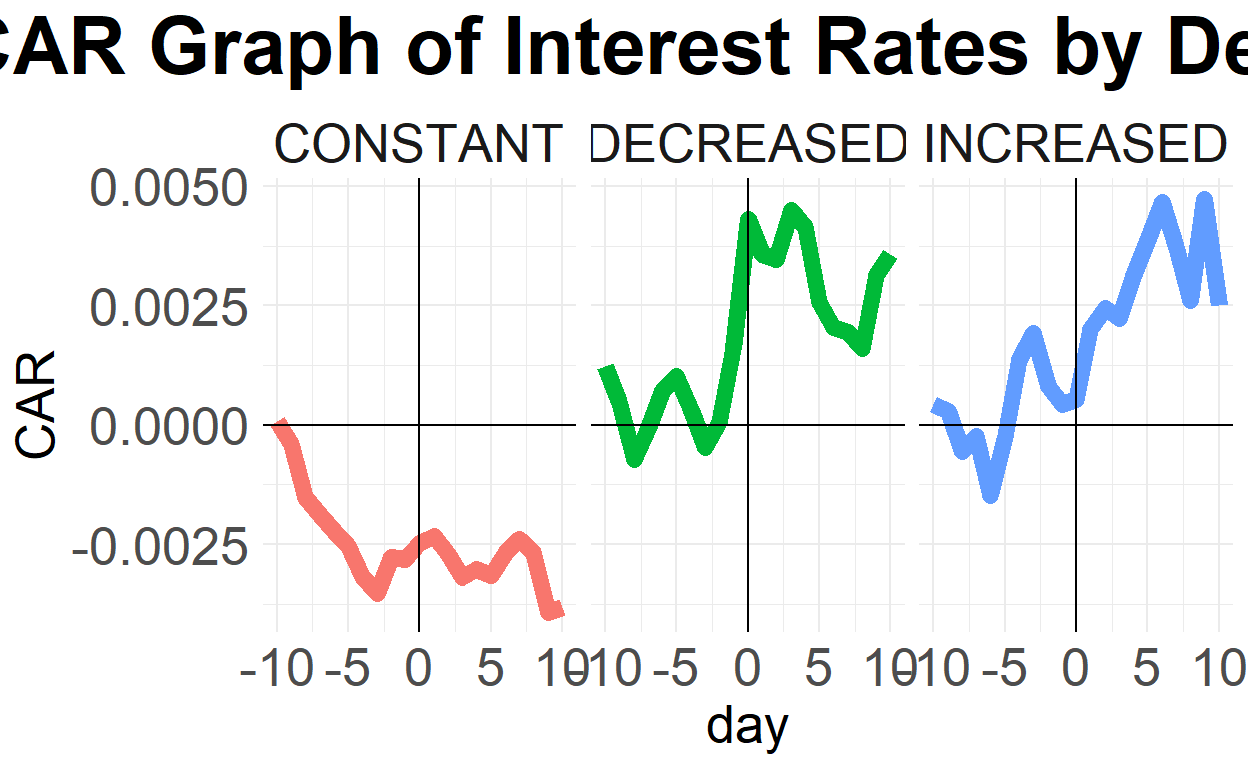
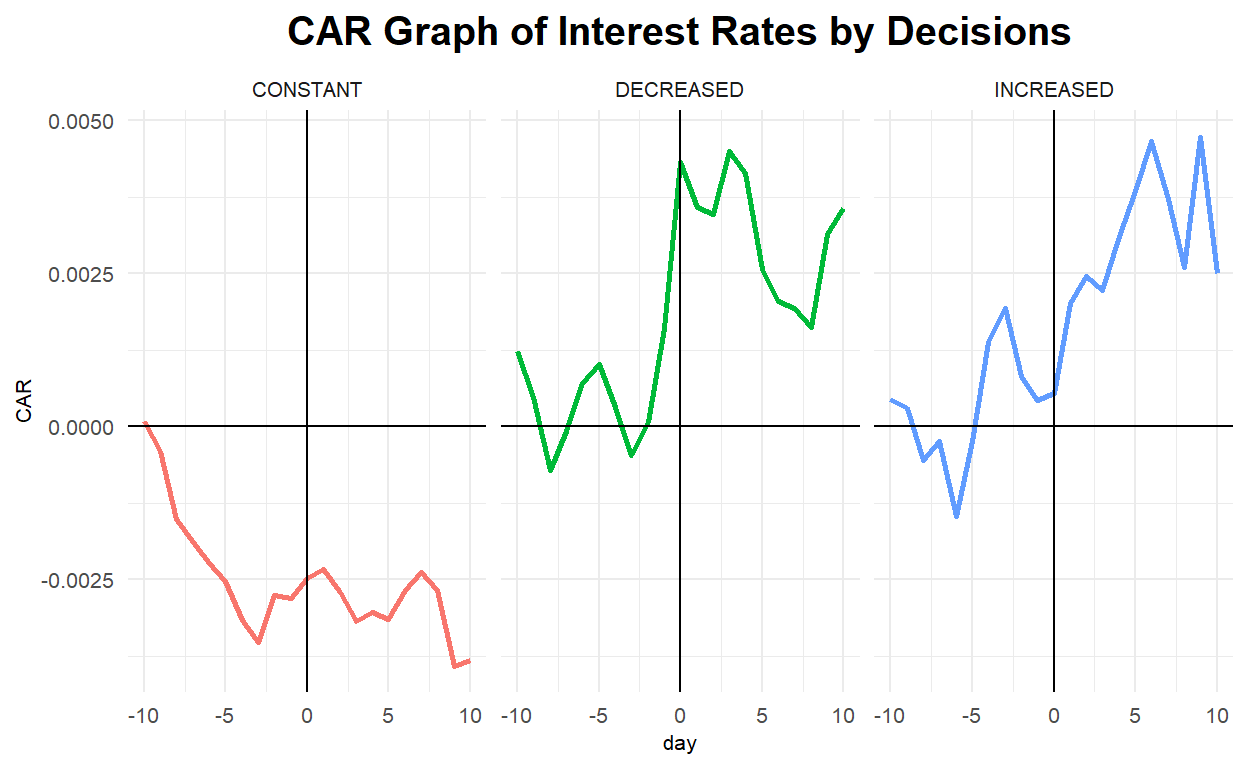
event_study

diff --git a/_posts/2022-11-03-eventstudy/eventstudy.html b/_posts/2022-11-03-eventstudy/eventstudy.html
@@ -117,7 +117,7 @@ code span.wa { color: #5e5e5e; font-style: italic; } /* Warning */
   <!--/radix_placeholder_rmarkdown_metadata-->
   
   <script type="text/json" id="radix-resource-manifest">
-  {"type":"character","attributes":{},"value":["data.xlsx","event_est_window.PNG","eventstudy_files/figure-html5/unnamed-chunk-3-1.png","eventstudy_files/figure-html5/unnamed-chunk-4-1.png","eventstudy_files/figure-html5/unnamed-chunk-8-1.png","eventstudy_files/figure-html5/unnamed-chunk-9-1.png"]}
+  {"type":"character","attributes":{},"value":["data.xlsx","event_est_window.PNG","eventstudy_files/anchor-4.2.2/anchor.min.js","eventstudy_files/bowser-1.9.3/bowser.min.js","eventstudy_files/distill-2.2.21/template.v2.js","eventstudy_files/figure-html5/unnamed-chunk-3-1.png","eventstudy_files/figure-html5/unnamed-chunk-4-1.png","eventstudy_files/figure-html5/unnamed-chunk-8-1.png","eventstudy_files/figure-html5/unnamed-chunk-9-1.png","eventstudy_files/header-attrs-2.14/header-attrs.js","eventstudy_files/jquery-3.6.0/jquery-3.6.0.js","eventstudy_files/jquery-3.6.0/jquery-3.6.0.min.js","eventstudy_files/jquery-3.6.0/jquery-3.6.0.min.map","eventstudy_files/popper-2.6.0/popper.min.js","eventstudy_files/tippy-6.2.7/tippy-bundle.umd.min.js","eventstudy_files/tippy-6.2.7/tippy-light-border.css","eventstudy_files/tippy-6.2.7/tippy.css","eventstudy_files/tippy-6.2.7/tippy.umd.min.js","eventstudy_files/webcomponents-2.0.0/webcomponents.js"]}
   </script>
   <!--radix_placeholder_navigation_in_header-->
   <!--/radix_placeholder_navigation_in_header-->
@@ -1736,15 +1736,15 @@ stock. Our Estimation window is (-252, -10) and our event window is
 
 <span class='va'>master_all</span> <span class='op'>&lt;-</span> <span class='fu'><a href='https://Rdatatable.gitlab.io/data.table/reference/rbindlist.html'>rbind</a></span><span class='op'>(</span><span class='va'>master2_cons</span>,<span class='va'>master2_inc</span>,<span class='va'>master2_dec</span><span class='op'>)</span>
 <span class='fu'><a href='https://ggplot2.tidyverse.org/reference/ggplot.html'>ggplot</a></span><span class='op'>(</span><span class='va'>master_all</span>, <span class='fu'><a href='https://ggplot2.tidyverse.org/reference/aes.html'>aes</a></span><span class='op'>(</span>x <span class='op'>=</span> <span class='va'>day</span>, y <span class='op'>=</span> <span class='va'>CAR</span>, color <span class='op'>=</span> <span class='va'>DECISION</span><span class='op'>)</span><span class='op'>)</span> <span class='op'>+</span>
-  <span class='fu'><a href='https://ggplot2.tidyverse.org/reference/geom_path.html'>geom_line</a></span><span class='op'>(</span>size <span class='op'>=</span> <span class='fl'>3</span><span class='op'>)</span> <span class='op'>+</span>
+  <span class='fu'><a href='https://ggplot2.tidyverse.org/reference/geom_path.html'>geom_line</a></span><span class='op'>(</span>size <span class='op'>=</span> <span class='fl'>1</span><span class='op'>)</span> <span class='op'>+</span>
   <span class='fu'><a href='https://ggplot2.tidyverse.org/reference/geom_abline.html'>geom_vline</a></span><span class='op'>(</span>xintercept <span class='op'>=</span> <span class='fl'>0</span><span class='op'>)</span> <span class='op'>+</span>
   <span class='fu'><a href='https://ggplot2.tidyverse.org/reference/geom_abline.html'>geom_hline</a></span><span class='op'>(</span>yintercept <span class='op'>=</span> <span class='fl'>0</span><span class='op'>)</span> <span class='op'>+</span>
   <span class='fu'><a href='https://ggplot2.tidyverse.org/reference/ggtheme.html'>theme_minimal</a></span><span class='op'>(</span><span class='op'>)</span> <span class='op'>+</span>
-  <span class='fu'><a href='https://ggplot2.tidyverse.org/reference/theme.html'>theme</a></span><span class='op'>(</span>strip.text <span class='op'>=</span> <span class='fu'><a href='https://ggplot2.tidyverse.org/reference/element.html'>element_text</a></span><span class='op'>(</span>size <span class='op'>=</span> <span class='fl'>20</span><span class='op'>)</span>,
+  <span class='fu'><a href='https://ggplot2.tidyverse.org/reference/theme.html'>theme</a></span><span class='op'>(</span>strip.text <span class='op'>=</span> <span class='fu'><a href='https://ggplot2.tidyverse.org/reference/element.html'>element_text</a></span><span class='op'>(</span>size <span class='op'>=</span> <span class='fl'>8</span><span class='op'>)</span>,
         legend.position <span class='op'>=</span> <span class='st'>"none"</span>,
-        axis.text <span class='op'>=</span> <span class='fu'><a href='https://ggplot2.tidyverse.org/reference/element.html'>element_text</a></span><span class='op'>(</span>size <span class='op'>=</span> <span class='fl'>20</span><span class='op'>)</span>,
-        axis.title <span class='op'>=</span> <span class='fu'><a href='https://ggplot2.tidyverse.org/reference/element.html'>element_text</a></span><span class='op'>(</span>size <span class='op'>=</span> <span class='fl'>20</span><span class='op'>)</span>,
-        plot.title <span class='op'>=</span> <span class='fu'><a href='https://ggplot2.tidyverse.org/reference/element.html'>element_text</a></span><span class='op'>(</span>size <span class='op'>=</span> <span class='fl'>30</span>, face <span class='op'>=</span> <span class='st'>"bold"</span>, hjust <span class='op'>=</span> <span class='fl'>0.5</span><span class='op'>)</span><span class='op'>)</span> <span class='op'>+</span>
+        axis.text <span class='op'>=</span> <span class='fu'><a href='https://ggplot2.tidyverse.org/reference/element.html'>element_text</a></span><span class='op'>(</span>size <span class='op'>=</span> <span class='fl'>8</span><span class='op'>)</span>,
+        axis.title <span class='op'>=</span> <span class='fu'><a href='https://ggplot2.tidyverse.org/reference/element.html'>element_text</a></span><span class='op'>(</span>size <span class='op'>=</span> <span class='fl'>8</span><span class='op'>)</span>,
+        plot.title <span class='op'>=</span> <span class='fu'><a href='https://ggplot2.tidyverse.org/reference/element.html'>element_text</a></span><span class='op'>(</span>size <span class='op'>=</span> <span class='fl'>15</span>, face <span class='op'>=</span> <span class='st'>"bold"</span>, hjust <span class='op'>=</span> <span class='fl'>0.5</span><span class='op'>)</span><span class='op'>)</span> <span class='op'>+</span>
   <span class='fu'><a href='https://ggplot2.tidyverse.org/reference/facet_wrap.html'>facet_wrap</a></span><span class='op'>(</span><span class='op'>~</span><span class='va'>DECISION</span><span class='op'>)</span> <span class='op'>+</span>
   <span class='fu'><a href='https://ggplot2.tidyverse.org/reference/labs.html'>labs</a></span><span class='op'>(</span>title <span class='op'>=</span> <span class='st'>"CAR Graph of Interest Rates by Decisions"</span><span class='op'>)</span>
 </code></pre>
@@ -1871,15 +1871,15 @@ DECISION <span class='op'>=</span> <span class='st'>"DECREASED"</span>
 
 
 <span class='fu'><a href='https://ggplot2.tidyverse.org/reference/ggplot.html'>ggplot</a></span><span class='op'>(</span><span class='va'>master_all2</span>, <span class='fu'><a href='https://ggplot2.tidyverse.org/reference/aes.html'>aes</a></span><span class='op'>(</span>x <span class='op'>=</span> <span class='va'>day</span>, y <span class='op'>=</span> <span class='va'>CAR</span>, color <span class='op'>=</span> <span class='va'>DECISION</span><span class='op'>)</span><span class='op'>)</span> <span class='op'>+</span>
-  <span class='fu'><a href='https://ggplot2.tidyverse.org/reference/geom_path.html'>geom_line</a></span><span class='op'>(</span>size <span class='op'>=</span> <span class='fl'>3</span><span class='op'>)</span> <span class='op'>+</span>
+  <span class='fu'><a href='https://ggplot2.tidyverse.org/reference/geom_path.html'>geom_line</a></span><span class='op'>(</span>size <span class='op'>=</span> <span class='fl'>1</span><span class='op'>)</span> <span class='op'>+</span>
   <span class='fu'><a href='https://ggplot2.tidyverse.org/reference/geom_abline.html'>geom_vline</a></span><span class='op'>(</span>xintercept <span class='op'>=</span> <span class='fl'>0</span><span class='op'>)</span> <span class='op'>+</span>
   <span class='fu'><a href='https://ggplot2.tidyverse.org/reference/geom_abline.html'>geom_hline</a></span><span class='op'>(</span>yintercept <span class='op'>=</span> <span class='fl'>0</span><span class='op'>)</span> <span class='op'>+</span>
   <span class='fu'><a href='https://ggplot2.tidyverse.org/reference/ggtheme.html'>theme_minimal</a></span><span class='op'>(</span><span class='op'>)</span> <span class='op'>+</span>
-  <span class='fu'><a href='https://ggplot2.tidyverse.org/reference/theme.html'>theme</a></span><span class='op'>(</span>strip.text <span class='op'>=</span> <span class='fu'><a href='https://ggplot2.tidyverse.org/reference/element.html'>element_text</a></span><span class='op'>(</span>size <span class='op'>=</span> <span class='fl'>20</span><span class='op'>)</span>,
+  <span class='fu'><a href='https://ggplot2.tidyverse.org/reference/theme.html'>theme</a></span><span class='op'>(</span>strip.text <span class='op'>=</span> <span class='fu'><a href='https://ggplot2.tidyverse.org/reference/element.html'>element_text</a></span><span class='op'>(</span>size <span class='op'>=</span> <span class='fl'>8</span><span class='op'>)</span>,
         legend.position <span class='op'>=</span> <span class='st'>"none"</span>,
-        axis.text <span class='op'>=</span> <span class='fu'><a href='https://ggplot2.tidyverse.org/reference/element.html'>element_text</a></span><span class='op'>(</span>size <span class='op'>=</span> <span class='fl'>20</span><span class='op'>)</span>,
-        axis.title <span class='op'>=</span> <span class='fu'><a href='https://ggplot2.tidyverse.org/reference/element.html'>element_text</a></span><span class='op'>(</span>size <span class='op'>=</span> <span class='fl'>20</span><span class='op'>)</span>,
-        plot.title <span class='op'>=</span> <span class='fu'><a href='https://ggplot2.tidyverse.org/reference/element.html'>element_text</a></span><span class='op'>(</span>size <span class='op'>=</span> <span class='fl'>30</span>, face <span class='op'>=</span> <span class='st'>"bold"</span>, hjust <span class='op'>=</span> <span class='fl'>0.5</span><span class='op'>)</span><span class='op'>)</span> <span class='op'>+</span>
+        axis.text <span class='op'>=</span> <span class='fu'><a href='https://ggplot2.tidyverse.org/reference/element.html'>element_text</a></span><span class='op'>(</span>size <span class='op'>=</span> <span class='fl'>8</span><span class='op'>)</span>,
+        axis.title <span class='op'>=</span> <span class='fu'><a href='https://ggplot2.tidyverse.org/reference/element.html'>element_text</a></span><span class='op'>(</span>size <span class='op'>=</span> <span class='fl'>8</span><span class='op'>)</span>,
+        plot.title <span class='op'>=</span> <span class='fu'><a href='https://ggplot2.tidyverse.org/reference/element.html'>element_text</a></span><span class='op'>(</span>size <span class='op'>=</span> <span class='fl'>15</span>, face <span class='op'>=</span> <span class='st'>"bold"</span>, hjust <span class='op'>=</span> <span class='fl'>0.5</span><span class='op'>)</span><span class='op'>)</span> <span class='op'>+</span>
   <span class='fu'><a href='https://ggplot2.tidyverse.org/reference/facet_wrap.html'>facet_wrap</a></span><span class='op'>(</span><span class='op'>~</span><span class='va'>DECISION</span><span class='op'>)</span> <span class='op'>+</span>
   <span class='fu'><a href='https://ggplot2.tidyverse.org/reference/labs.html'>labs</a></span><span class='op'>(</span>title <span class='op'>=</span> <span class='st'>"CAR Graph of Interest Rates by Decisions"</span><span class='op'>)</span>
 </code></pre>

diff --git a/docs/posts/2022-11-03-eventstudy/index.html b/docs/posts/2022-11-03-eventstudy/index.html
@@ -118,7 +118,7 @@ code span.wa { color: #5e5e5e; font-style: italic; } /* Warning */
 <!--/radix_placeholder_rmarkdown_metadata-->
   
   <script type="text/json" id="radix-resource-manifest">
-  {"type":"character","attributes":{},"value":["data.xlsx","event_est_window.PNG","eventstudy_files/figure-html5/unnamed-chunk-3-1.png","eventstudy_files/figure-html5/unnamed-chunk-4-1.png","eventstudy_files/figure-html5/unnamed-chunk-8-1.png","eventstudy_files/figure-html5/unnamed-chunk-9-1.png"]}
+  {"type":"character","attributes":{},"value":["data.xlsx","event_est_window.PNG","eventstudy_files/anchor-4.2.2/anchor.min.js","eventstudy_files/bowser-1.9.3/bowser.min.js","eventstudy_files/distill-2.2.21/template.v2.js","eventstudy_files/figure-html5/unnamed-chunk-3-1.png","eventstudy_files/figure-html5/unnamed-chunk-4-1.png","eventstudy_files/figure-html5/unnamed-chunk-8-1.png","eventstudy_files/figure-html5/unnamed-chunk-9-1.png","eventstudy_files/header-attrs-2.14/header-attrs.js","eventstudy_files/jquery-3.6.0/jquery-3.6.0.js","eventstudy_files/jquery-3.6.0/jquery-3.6.0.min.js","eventstudy_files/jquery-3.6.0/jquery-3.6.0.min.map","eventstudy_files/popper-2.6.0/popper.min.js","eventstudy_files/tippy-6.2.7/tippy-bundle.umd.min.js","eventstudy_files/tippy-6.2.7/tippy-light-border.css","eventstudy_files/tippy-6.2.7/tippy.css","eventstudy_files/tippy-6.2.7/tippy.umd.min.js","eventstudy_files/webcomponents-2.0.0/webcomponents.js"]}
   </script>
   <!--radix_placeholder_navigation_in_header-->
 <meta name="distill:offset" content="../.."/>
@@ -2356,15 +2356,15 @@ stock. Our Estimation window is (-252, -10) and our event window is
 
 <span class='va'>master_all</span> <span class='op'>&lt;-</span> <span class='fu'><a href='https://Rdatatable.gitlab.io/data.table/reference/rbindlist.html'>rbind</a></span><span class='op'>(</span><span class='va'>master2_cons</span>,<span class='va'>master2_inc</span>,<span class='va'>master2_dec</span><span class='op'>)</span>
 <span class='fu'><a href='https://ggplot2.tidyverse.org/reference/ggplot.html'>ggplot</a></span><span class='op'>(</span><span class='va'>master_all</span>, <span class='fu'><a href='https://ggplot2.tidyverse.org/reference/aes.html'>aes</a></span><span class='op'>(</span>x <span class='op'>=</span> <span class='va'>day</span>, y <span class='op'>=</span> <span class='va'>CAR</span>, color <span class='op'>=</span> <span class='va'>DECISION</span><span class='op'>)</span><span class='op'>)</span> <span class='op'>+</span>
-  <span class='fu'><a href='https://ggplot2.tidyverse.org/reference/geom_path.html'>geom_line</a></span><span class='op'>(</span>size <span class='op'>=</span> <span class='fl'>3</span><span class='op'>)</span> <span class='op'>+</span>
+  <span class='fu'><a href='https://ggplot2.tidyverse.org/reference/geom_path.html'>geom_line</a></span><span class='op'>(</span>size <span class='op'>=</span> <span class='fl'>1</span><span class='op'>)</span> <span class='op'>+</span>
   <span class='fu'><a href='https://ggplot2.tidyverse.org/reference/geom_abline.html'>geom_vline</a></span><span class='op'>(</span>xintercept <span class='op'>=</span> <span class='fl'>0</span><span class='op'>)</span> <span class='op'>+</span>
   <span class='fu'><a href='https://ggplot2.tidyverse.org/reference/geom_abline.html'>geom_hline</a></span><span class='op'>(</span>yintercept <span class='op'>=</span> <span class='fl'>0</span><span class='op'>)</span> <span class='op'>+</span>
   <span class='fu'><a href='https://ggplot2.tidyverse.org/reference/ggtheme.html'>theme_minimal</a></span><span class='op'>(</span><span class='op'>)</span> <span class='op'>+</span>
-  <span class='fu'><a href='https://ggplot2.tidyverse.org/reference/theme.html'>theme</a></span><span class='op'>(</span>strip.text <span class='op'>=</span> <span class='fu'><a href='https://ggplot2.tidyverse.org/reference/element.html'>element_text</a></span><span class='op'>(</span>size <span class='op'>=</span> <span class='fl'>20</span><span class='op'>)</span>,
+  <span class='fu'><a href='https://ggplot2.tidyverse.org/reference/theme.html'>theme</a></span><span class='op'>(</span>strip.text <span class='op'>=</span> <span class='fu'><a href='https://ggplot2.tidyverse.org/reference/element.html'>element_text</a></span><span class='op'>(</span>size <span class='op'>=</span> <span class='fl'>8</span><span class='op'>)</span>,
         legend.position <span class='op'>=</span> <span class='st'>"none"</span>,
-        axis.text <span class='op'>=</span> <span class='fu'><a href='https://ggplot2.tidyverse.org/reference/element.html'>element_text</a></span><span class='op'>(</span>size <span class='op'>=</span> <span class='fl'>20</span><span class='op'>)</span>,
-        axis.title <span class='op'>=</span> <span class='fu'><a href='https://ggplot2.tidyverse.org/reference/element.html'>element_text</a></span><span class='op'>(</span>size <span class='op'>=</span> <span class='fl'>20</span><span class='op'>)</span>,
-        plot.title <span class='op'>=</span> <span class='fu'><a href='https://ggplot2.tidyverse.org/reference/element.html'>element_text</a></span><span class='op'>(</span>size <span class='op'>=</span> <span class='fl'>30</span>, face <span class='op'>=</span> <span class='st'>"bold"</span>, hjust <span class='op'>=</span> <span class='fl'>0.5</span><span class='op'>)</span><span class='op'>)</span> <span class='op'>+</span>
+        axis.text <span class='op'>=</span> <span class='fu'><a href='https://ggplot2.tidyverse.org/reference/element.html'>element_text</a></span><span class='op'>(</span>size <span class='op'>=</span> <span class='fl'>8</span><span class='op'>)</span>,
+        axis.title <span class='op'>=</span> <span class='fu'><a href='https://ggplot2.tidyverse.org/reference/element.html'>element_text</a></span><span class='op'>(</span>size <span class='op'>=</span> <span class='fl'>8</span><span class='op'>)</span>,
+        plot.title <span class='op'>=</span> <span class='fu'><a href='https://ggplot2.tidyverse.org/reference/element.html'>element_text</a></span><span class='op'>(</span>size <span class='op'>=</span> <span class='fl'>15</span>, face <span class='op'>=</span> <span class='st'>"bold"</span>, hjust <span class='op'>=</span> <span class='fl'>0.5</span><span class='op'>)</span><span class='op'>)</span> <span class='op'>+</span>
   <span class='fu'><a href='https://ggplot2.tidyverse.org/reference/facet_wrap.html'>facet_wrap</a></span><span class='op'>(</span><span class='op'>~</span><span class='va'>DECISION</span><span class='op'>)</span> <span class='op'>+</span>
   <span class='fu'><a href='https://ggplot2.tidyverse.org/reference/labs.html'>labs</a></span><span class='op'>(</span>title <span class='op'>=</span> <span class='st'>"CAR Graph of Interest Rates by Decisions"</span><span class='op'>)</span>
 </code></pre>
@@ -2491,15 +2491,15 @@ DECISION <span class='op'>=</span> <span class='st'>"DECREASED"</span>
 
 
 <span class='fu'><a href='https://ggplot2.tidyverse.org/reference/ggplot.html'>ggplot</a></span><span class='op'>(</span><span class='va'>master_all2</span>, <span class='fu'><a href='https://ggplot2.tidyverse.org/reference/aes.html'>aes</a></span><span class='op'>(</span>x <span class='op'>=</span> <span class='va'>day</span>, y <span class='op'>=</span> <span class='va'>CAR</span>, color <span class='op'>=</span> <span class='va'>DECISION</span><span class='op'>)</span><span class='op'>)</span> <span class='op'>+</span>
-  <span class='fu'><a href='https://ggplot2.tidyverse.org/reference/geom_path.html'>geom_line</a></span><span class='op'>(</span>size <span class='op'>=</span> <span class='fl'>3</span><span class='op'>)</span> <span class='op'>+</span>
+  <span class='fu'><a href='https://ggplot2.tidyverse.org/reference/geom_path.html'>geom_line</a></span><span class='op'>(</span>size <span class='op'>=</span> <span class='fl'>1</span><span class='op'>)</span> <span class='op'>+</span>
   <span class='fu'><a href='https://ggplot2.tidyverse.org/reference/geom_abline.html'>geom_vline</a></span><span class='op'>(</span>xintercept <span class='op'>=</span> <span class='fl'>0</span><span class='op'>)</span> <span class='op'>+</span>
   <span class='fu'><a href='https://ggplot2.tidyverse.org/reference/geom_abline.html'>geom_hline</a></span><span class='op'>(</span>yintercept <span class='op'>=</span> <span class='fl'>0</span><span class='op'>)</span> <span class='op'>+</span>
   <span class='fu'><a href='https://ggplot2.tidyverse.org/reference/ggtheme.html'>theme_minimal</a></span><span class='op'>(</span><span class='op'>)</span> <span class='op'>+</span>
-  <span class='fu'><a href='https://ggplot2.tidyverse.org/reference/theme.html'>theme</a></span><span class='op'>(</span>strip.text <span class='op'>=</span> <span class='fu'><a href='https://ggplot2.tidyverse.org/reference/element.html'>element_text</a></span><span class='op'>(</span>size <span class='op'>=</span> <span class='fl'>20</span><span class='op'>)</span>,
+  <span class='fu'><a href='https://ggplot2.tidyverse.org/reference/theme.html'>theme</a></span><span class='op'>(</span>strip.text <span class='op'>=</span> <span class='fu'><a href='https://ggplot2.tidyverse.org/reference/element.html'>element_text</a></span><span class='op'>(</span>size <span class='op'>=</span> <span class='fl'>8</span><span class='op'>)</span>,
         legend.position <span class='op'>=</span> <span class='st'>"none"</span>,
-        axis.text <span class='op'>=</span> <span class='fu'><a href='https://ggplot2.tidyverse.org/reference/element.html'>element_text</a></span><span class='op'>(</span>size <span class='op'>=</span> <span class='fl'>20</span><span class='op'>)</span>,
-        axis.title <span class='op'>=</span> <span class='fu'><a href='https://ggplot2.tidyverse.org/reference/element.html'>element_text</a></span><span class='op'>(</span>size <span class='op'>=</span> <span class='fl'>20</span><span class='op'>)</span>,
-        plot.title <span class='op'>=</span> <span class='fu'><a href='https://ggplot2.tidyverse.org/reference/element.html'>element_text</a></span><span class='op'>(</span>size <span class='op'>=</span> <span class='fl'>30</span>, face <span class='op'>=</span> <span class='st'>"bold"</span>, hjust <span class='op'>=</span> <span class='fl'>0.5</span><span class='op'>)</span><span class='op'>)</span> <span class='op'>+</span>
+        axis.text <span class='op'>=</span> <span class='fu'><a href='https://ggplot2.tidyverse.org/reference/element.html'>element_text</a></span><span class='op'>(</span>size <span class='op'>=</span> <span class='fl'>8</span><span class='op'>)</span>,
+        axis.title <span class='op'>=</span> <span class='fu'><a href='https://ggplot2.tidyverse.org/reference/element.html'>element_text</a></span><span class='op'>(</span>size <span class='op'>=</span> <span class='fl'>8</span><span class='op'>)</span>,
+        plot.title <span class='op'>=</span> <span class='fu'><a href='https://ggplot2.tidyverse.org/reference/element.html'>element_text</a></span><span class='op'>(</span>size <span class='op'>=</span> <span class='fl'>15</span>, face <span class='op'>=</span> <span class='st'>"bold"</span>, hjust <span class='op'>=</span> <span class='fl'>0.5</span><span class='op'>)</span><span class='op'>)</span> <span class='op'>+</span>
   <span class='fu'><a href='https://ggplot2.tidyverse.org/reference/facet_wrap.html'>facet_wrap</a></span><span class='op'>(</span><span class='op'>~</span><span class='va'>DECISION</span><span class='op'>)</span> <span class='op'>+</span>
   <span class='fu'><a href='https://ggplot2.tidyverse.org/reference/labs.html'>labs</a></span><span class='op'>(</span>title <span class='op'>=</span> <span class='st'>"CAR Graph of Interest Rates by Decisions"</span><span class='op'>)</span>
 </code></pre>

diff --git a/docs/index.html b/docs/index.html
@@ -2214,7 +2214,7 @@ function init_posts_list() {
 <a href="posts/2022-11-03-eventstudy/" class="post-preview">
 <script class="post-metadata" type="text/json">{"categories":["Event study","Policy rate","Macroeconomic announcement"]}</script>
 <div class="metadata">
-<div class="publishedDate">Nov. 3, 2022</div>
+<div class="publishedDate">Nov. 2, 2022</div>
 </div>
 <div class="thumbnail">
 <img src="posts/2022-11-03-eventstudy/eventstudy_files/figure-html5/unnamed-chunk-3-1.png"/>
@@ -2442,7 +2442,7 @@ function init_posts_list() {
 <a href="#">More articles &raquo;</a>
 </div>
 </div>
-<!--/radix_placeholder_article_listing-->
+<!--/radix_placeholder_article_listing-->
 
 <div class="d-title">
 <h1>index.knit</h1>
@@ -2469,8 +2469,4 @@ class="sourceCode r distill-force-highlighting-css"><code class="sourceCode r"><
 <div class="appendix-bottom"></div>
 <!--/radix_placeholder_appendices-->
 <!--radix_placeholder_navigation_after_body-->
-<!--/radix_placeholder_navigation_after_body-->
-
-</body>
-
-</html>
+<!--/radix_placeholder_navig
